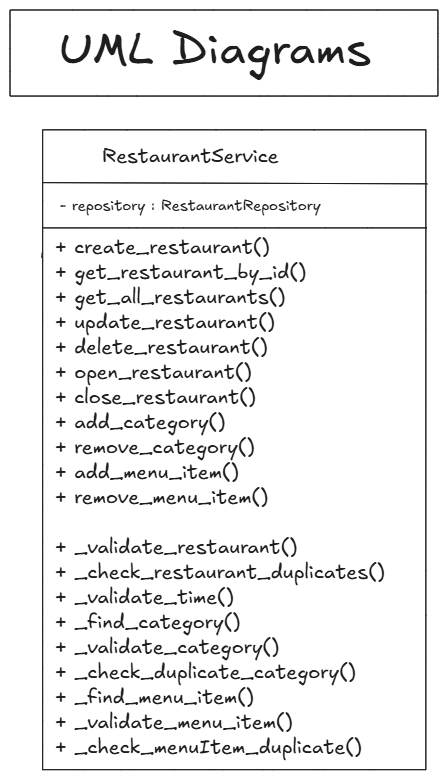
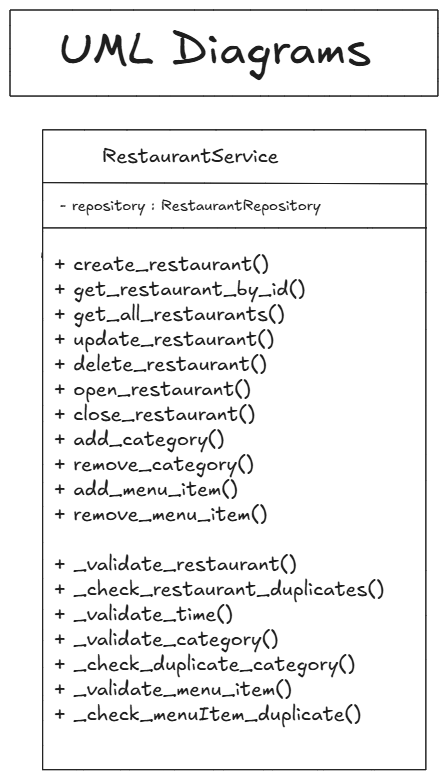
do some improvements

Changed region(s): [[0.1163, 0.3081, 0.8725, 0.9859]]

diff --git a/main.py b/main.py
@@ -4,7 +4,8 @@ from models.owner import Owner
 from models.restaurant import Restaurant
 from repositories.restaurant_repository import RestaurantRepository
 from services.restaurant_service import RestaurantService
-from controller.restaurant_controller import RestaurantController
+from controllers.restaurant_controller import RestaurantController
+from application.app import FoodDeliveryApp
 
 # Owner
 
@@ -19,7 +20,7 @@ menu_item_04 = MenuItem(4,"BBQ Chicken Pizza","this is BBQ Chicken Pizza",17.9,T
 
 category1 = Category(1,"Pizza")
 
-category1.add_item(menu_item_01,menu_item_02,menu_item_03,menu_item_04)
+# category1.add_item(menu_item_01,menu_item_02,menu_item_03,menu_item_04)
 
 
 # Burgers
@@ -31,7 +32,7 @@ menu_item_14 = MenuItem(4,"Double Patty Burger","this is Double Patty Burger",8.
 
 category2 = Category(2,"Burgers")
 
-category2.add_item(menu_item_11,menu_item_12,menu_item_13,menu_item_14)
+# category2.add_item(menu_item_11,menu_item_12,menu_item_13,menu_item_14)
 
 # Fries
 
@@ -42,7 +43,7 @@ menu_item_24 = MenuItem(4,"Masala Fries","this is Masala Fries",4.9,True,15)
 
 category3 = Category(3,"Fries")
 
-category3.add_item(menu_item_21,menu_item_22,menu_item_23,menu_item_24)
+# category3.add_item(menu_item_21,menu_item_22,menu_item_23,menu_item_24)
 
 # Sandwiches
 
@@ -53,7 +54,7 @@ menu_item_34 = MenuItem(4,"Tuna Sandwich","this is Tuna Sandwich",20.9,True,20)
 
 category4 = Category(4,"Sandwiches")
 
-category4.add_item(menu_item_31,menu_item_32,menu_item_33,menu_item_34)
+# category4.add_item(menu_item_31,menu_item_32,menu_item_33,menu_item_34)
 
 
 # Catgories
@@ -63,35 +64,51 @@ category4.add_item(menu_item_31,menu_item_32,menu_item_33,menu_item_34)
 
 #  Restaurant
 
-restaurant1 = Restaurant(1,"BFC","this is BFC","[email redacted]","03001234567","lahore","10:00","11:10",True,owner,)
+restaurant1 = Restaurant(1,"BFC","this is BFC","[email redacted]","03221234567","SHEIKHUPURA-22","12:00","22:10",False,owner)
 
-restaurant1.add_category(category1)
-restaurant1.add_category(category2)
-restaurant1.add_category(category3)
+# restaurant1.add_category(category1)
+# restaurant1.add_category(category2)
+# restaurant1.add_category(category3)
 
-restaurant1.add_category(category4)
+# restaurant1.add_category(category4)
 
 restaurant2 = Restaurant(2,"KFC","this is KFC","[email redacted]","030012345678","lahore","10:00","22:10",True,owner,)
 
-restaurant2.add_category(category1)
-restaurant2.add_category(category2)
-restaurant2.add_category(category3)
+# restaurant2.add_category(category1)
+# restaurant2.add_category(category2)
+# restaurant2.add_category(category3)
 
-restaurant2.add_category(category4)
-
-restRepo = RestaurantRepository()
-
-restService = RestaurantService(restRepo)
+# restaurant2.add_category(category4)
 
 
+app = FoodDeliveryApp()
 
-restCont= RestaurantController(restService)
+controller = app.restaurant_controller
 
-# restService.create_restaurant(restaurant1)
+# controller.create_restaurant(restaurant1)
 
-restCont.create_restaurant(restaurant1)
+# controller.add_category(1,category1)
+# controller.add_category(1,category2)
+# controller.add_category(1,category3)
+# controller.add_category(1,category4)
 
-restCont.close_restaurant(1)
+
+# controller.add_menu_item(1,3,menu_item_21)
+# controller.add_menu_item(1,3,menu_item_22)
+# controller.add_menu_item(1,1,menu_item_03)
+# controller.add_menu_item(1,1,menu_item_04)
+
+
+# controller.remove_category(1,1)
+
+
+# controller.remove_menu_item(1,3,1)
+
+# controller.delete_restaurant(2)
+
+# controller.update_restaurant(restaurant1)
+
+
 
 
 

diff --git a/services/restaurant_service.py b/services/restaurant_service.py
@@ -34,10 +34,11 @@ class RestaurantService:
     
 
     def update_restaurant(self,restaurant:Restaurant):
-        self._validate_time(restaurant.opening_time,restaurant.closing_time)
-        self._validate_restaurant(restaurant)
-        if self.repository.update(restaurant):
-            return restaurant
+        vt = self._validate_time(restaurant.opening_time,restaurant.closing_time)
+        vr = self._validate_restaurant(restaurant)
+        if vt and vr:
+           self.repository.update(restaurant)
+           return restaurant
         raise ValueError("Restaurant not found...")
 
 
@@ -83,11 +84,9 @@ class RestaurantService:
 
 
     def remove_category(self,restaurantId:int,categoryId:int):
-        rest = self.repository.find_by_id(restaurantId)
-        category = self._find_category(restaurantId,categoryId)
-        
-        if category:
-            rest.remove_category(category)
+        rest = self.repository.find_by_id(restaurantId)     
+        if rest:
+            rest.remove_category(categoryId)
             self.repository.update(rest)
         else:
             raise ValueError("Restaurant not found...")
@@ -109,11 +108,13 @@ class RestaurantService:
     def remove_menu_item(self,restaurantId:int,categoryId:int,itemId:int):
         rest = self.repository.find_by_id(restaurantId)
         category = self._find_category(rest,categoryId)
-        item = self._find_menu_item(rest,category,itemId)
+        item = category.find_item(itemId)
         if item:
             category.remove_item(itemId)
             self.repository.update(rest)
             return item
+        else:
+            print("...")
          
 
 
@@ -132,6 +133,8 @@ class RestaurantService:
         if not restaurant.email.strip():
             raise ValueError("Restaurant must have an Email")
         
+        return restaurant
+        
 
     def _check_restaurant_duplicates(self,restaurant:Restaurant):
 
@@ -146,6 +149,8 @@ class RestaurantService:
         
         if self.repository.find_by_email(restaurant.email):
             raise ValueError("Restaurant Email already exists")
+        
+        return restaurant
 
     
     def _validate_time(self,opening_time:str,closing_time:str):
@@ -158,18 +163,9 @@ class RestaurantService:
         if opening >= closing:
                 raise ValueError("Opening time must be earlier than closing time.")
         
-    def _find_category(self,restaurant:Restaurant,categoryId:int):
-        if restaurant:
-            for category in restaurant.categories:
-                if category.id == categoryId:
-                    return category
-                
-    def _find_menu_item(self,restaurant:Restaurant,category:Category,itemId:int):
-        category = self._find_category(restaurant,category)
-        if category:
-            for item in category.menu_items:
-                if item.id == itemId:
-                    return item
+        return True
+        
+    
         
     def _validate_category(self,category):
         if not category.name.strip():

diff --git a/models/restaurant.py b/models/restaurant.py
@@ -19,16 +19,16 @@ class Restaurant:
         self.categories.append(category)
         print("Category Added...")
 
-    def remove_category(self,name:str):
+    def remove_category(self,id:int):
         for category in self.categories:
-            if category.name.lower() == name.lower():
+            if category.id == id:
                 self.categories.remove(category)
                 print("Category Deleted...")
                 return
             
-    def find_category(self,name:str):
+    def find_category(self,id:int):
         for category in self.categories:
-            if category.name.lower() == name.lower():
+            if category.id == id:
                 return category
             
     def update_details(self,name:str | None = "",description:str | None = "",email:str | None = "",phone:str | None = "",address:str | None = "",openingTime: str | None = "",closingTime:str | None = ""):

diff --git a/controllers/restaurant_controller.py b/controllers/restaurant_controller.py
@@ -78,7 +78,7 @@ class RestaurantController:
 
     def add_menu_item(self,restaurantId: int, categoryId: int, item: MenuItem):
         try:
-            self.self.service.add_menu_item(restaurantId,categoryId,item)
+            self.service.add_menu_item(restaurantId,categoryId,item)
         except ValueError as e:
             print(e)
         else: